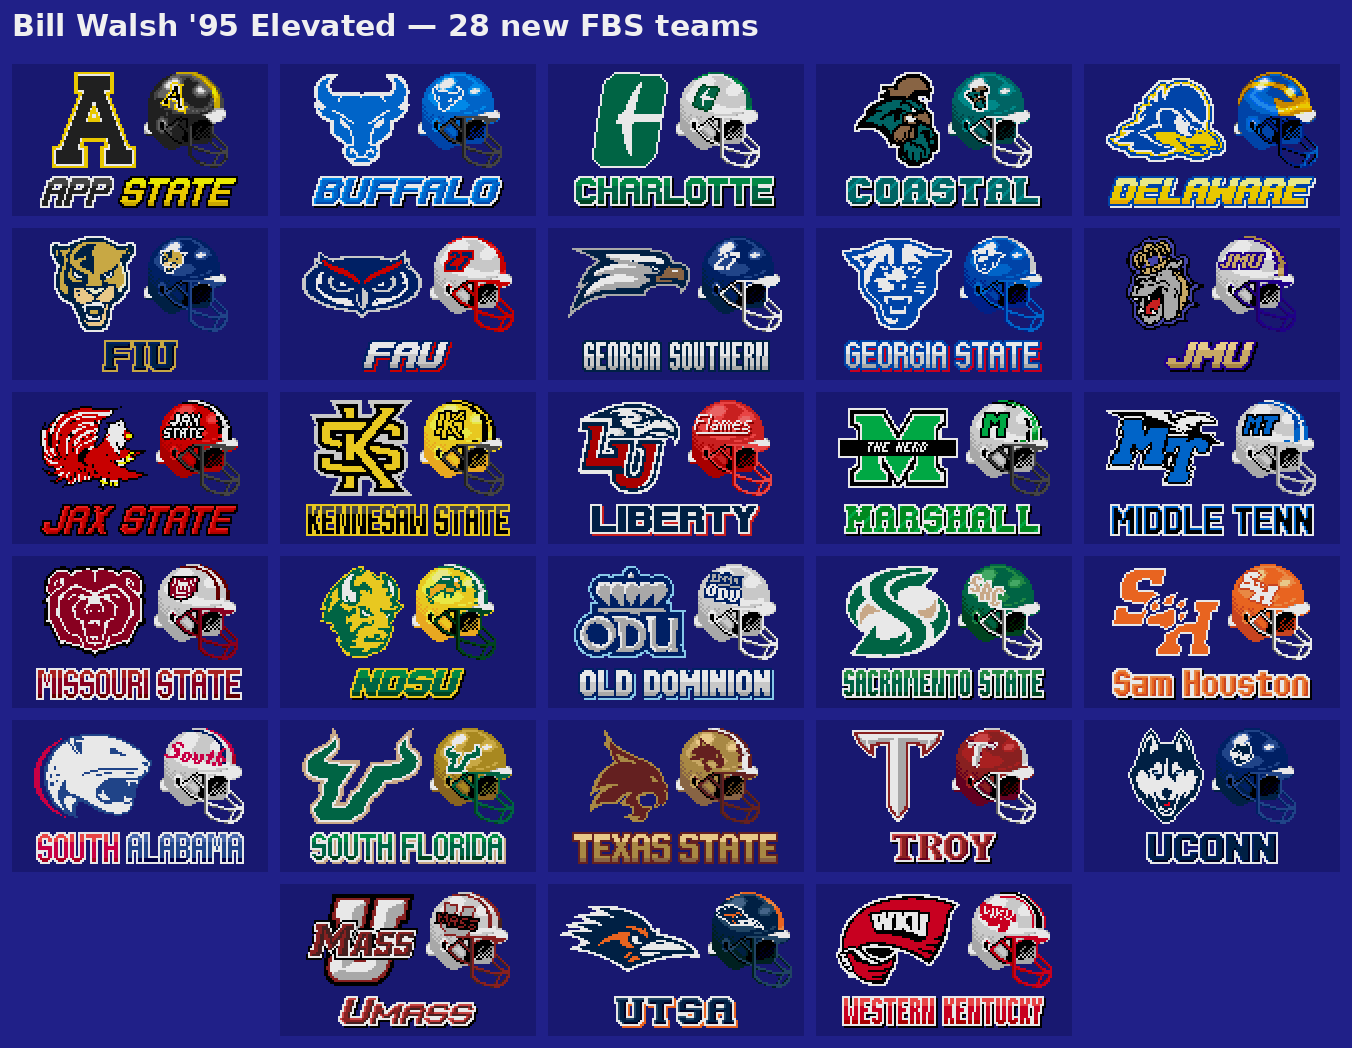
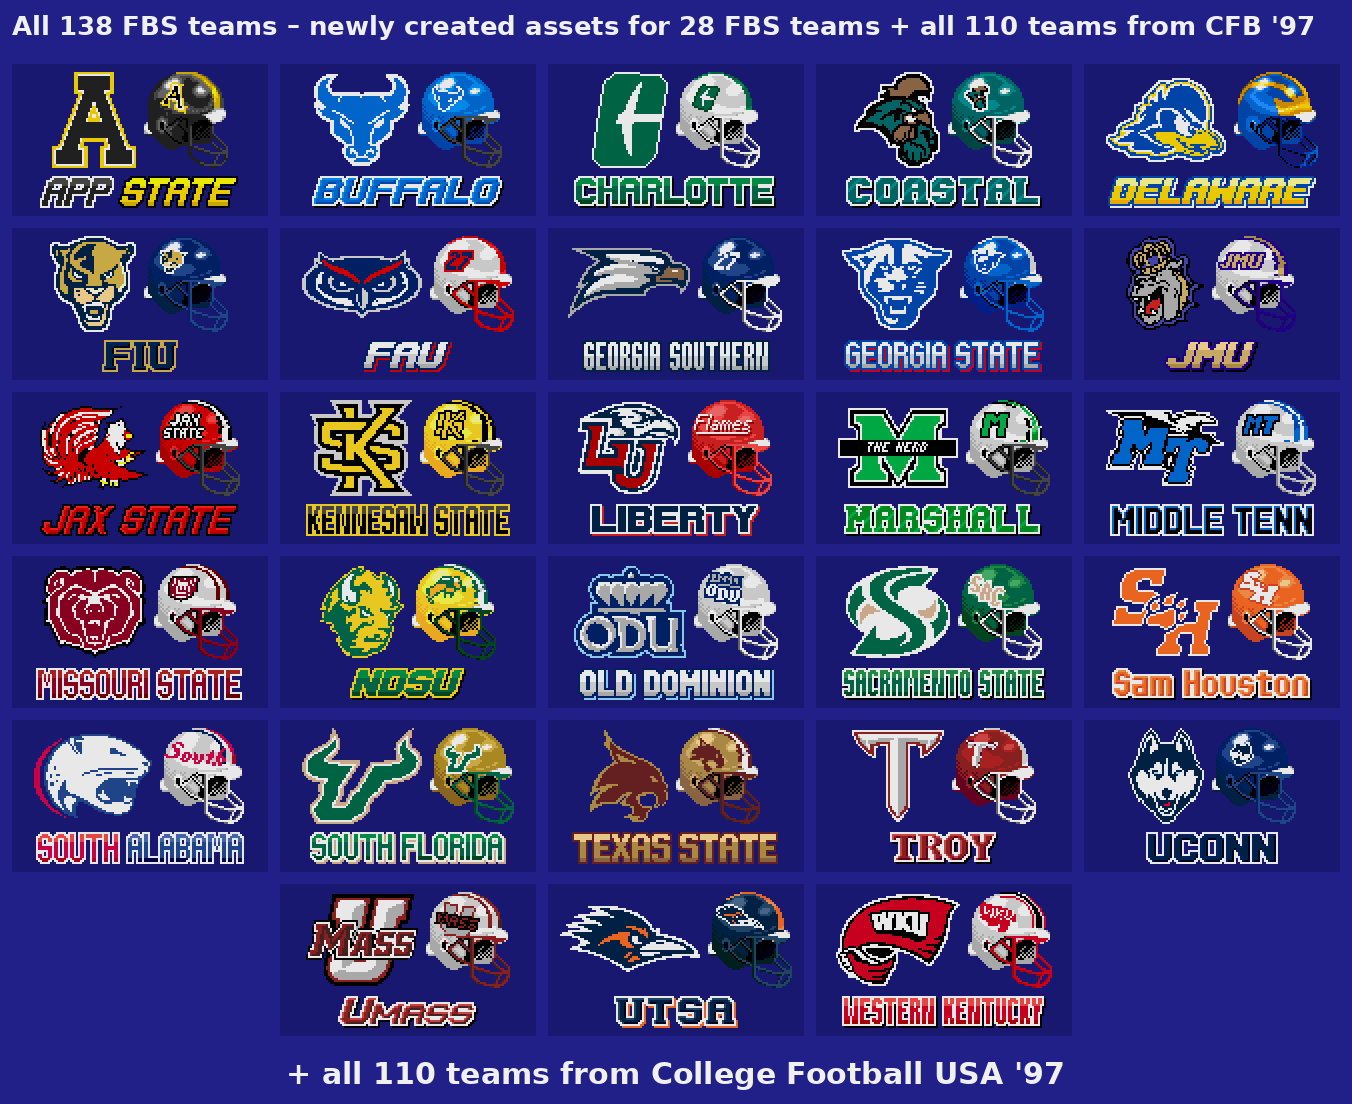
README: collage header and footer name all 138 teams
Claude-Session: https://claude.ai/code/session_013KgxyTnuPDLEFJ3nNMZsJQ

diff --git a/README.md b/README.md
@@ -86,7 +86,7 @@ In the original game a ball carrier starts losing speed right away and is down t
 
 ### 2026 Season Edition with all 138 FBS teams
 
-<img width="800" alt="The 28 teams with new helmets, logos, wordmarks and uniforms" src="images/new_teams_2026.png" />
+<img width="800" alt="All 138 FBS teams: the 28 with new helmets, logos, wordmarks and uniforms, plus all 110 teams from College Football USA '97" src="images/new_teams_2026.png" />
 
 - **All 138 FBS teams of 2026:** the 110 teams from College Football USA '97, and 28 more with new helmets, logos, wordmarks and uniforms made for this mod (above). On Game Setup the teams are in alphabetical order; hold left or right to scroll fast.
 - **2026 conferences:** SEC (16 teams), Big Ten (18), ACC (17), Big 12 (16), American (14), Sun Belt (14), MAC (13), Mountain West (10), Conference USA (10), Pac-12 (8) and the Independents (Notre Dame, UConn).
